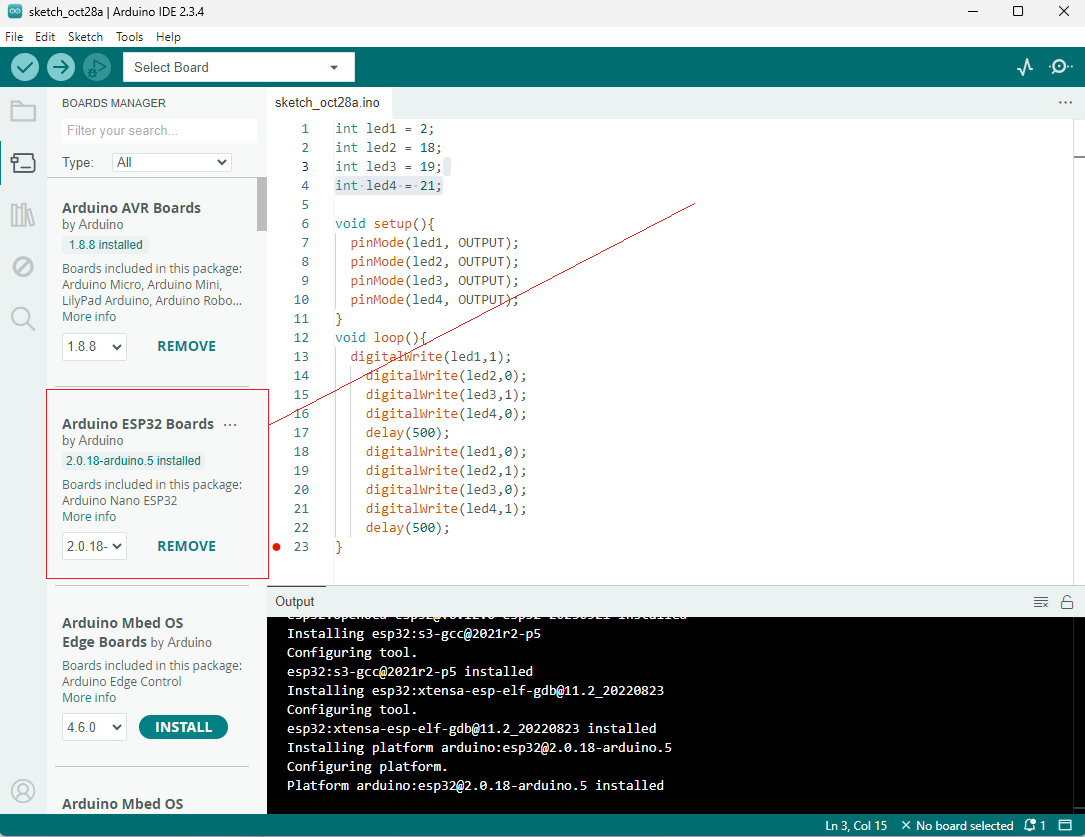
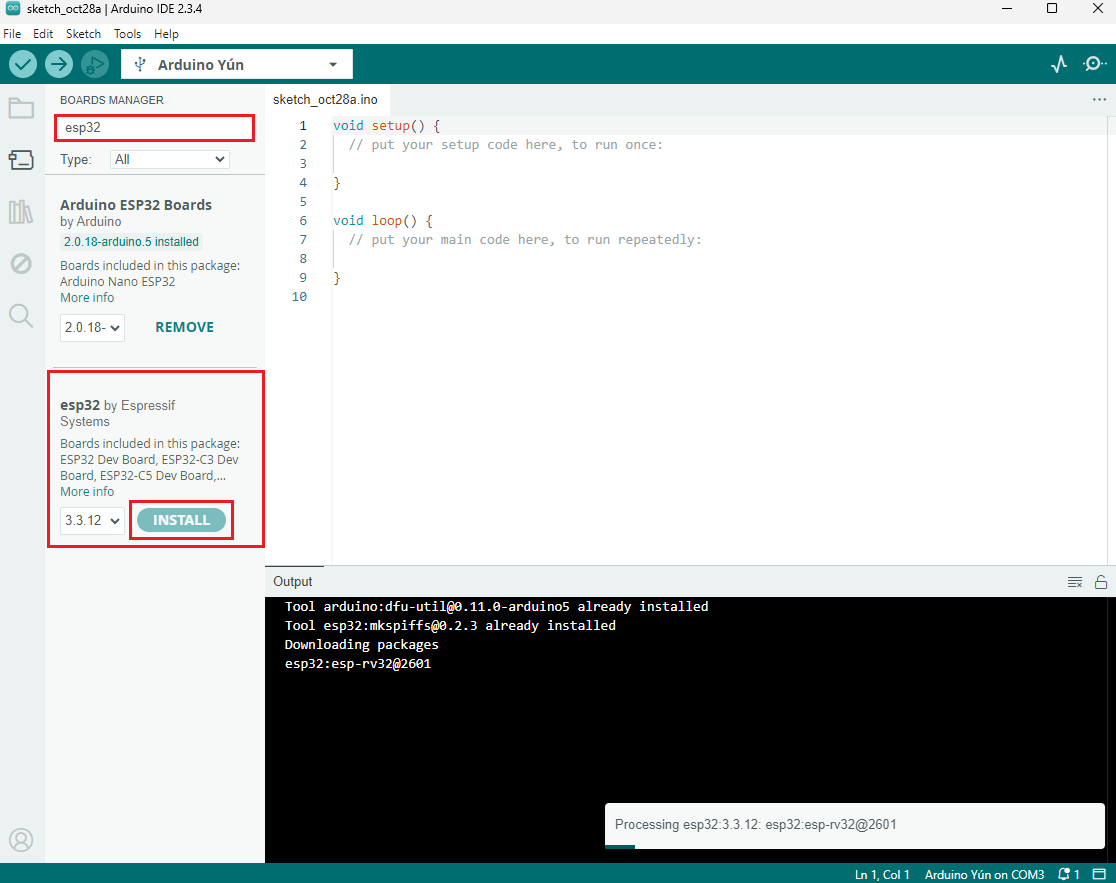
aula

Changed region(s): [[0.0, 0.0, 1.0, 1.0], [0.2737, 0.5591, 0.3041, 0.5902], [0.2737, 0.4659, 0.3041, 0.497]]

diff --git a/ds/turmas/2DES_B/4º Semestre/01-iot/aula06/README.md b/ds/turmas/2DES_B/4º Semestre/01-iot/aula06/README.md
@@ -75,22 +75,31 @@ void loop(){
         - Clicar em inicar e digitar Arduíno
         - Continuar a instalação pelo **Microsoft Store**
         - Ao concluir instalar os drives USB que forem solicitados
-<br>![MicrosoftStore](./ide01.png)
-- Após instalar a IDE, baixe o drive
+#### Imagem da instalação
+![MicrosoftStore](./ide01.png)
+- Se a instalação não iniciar por muito tempo escolha **Arduino 2**.
+- Ao concluir abra o Arduino IDE e instale os drivers
+- Tools >> Board >> Board Manager
+- Pesquise por **`esp32`** e instale
+<br>![ESP32](./driver02.png)
+
+<details><summary><h4>Baixar o driver manualmente</h4></summary>
+
 - [Baixar o Driver ESP32](https://www.pololu.com/file/0J14/pololu-cp2102-windows-220616.zip)
 - Descompacte e instale o driver x64
-<br>![Driver](./driver01.png)
-- Através da IDE instale-o abrindo a IDE do ARDUINO
-- Tools >> Board >> Board Manager e adicone o ESP32
-<br>![ESP32](./driver02.png)
-- Pesquise por esp32 e instale
-<br>![ESP32](./driver03.png)
+  - Navegando até o arquivo `pololu-...x64.exe` e executando como Administrador
+- ![Driver](./driver01.png)
+
+</details>
+
 
 ## Testando
 - Após a IDE e drive instalado
     - Conectar o cabo USB no ESP32 e computador
-    - Transmitir o código escolhendo a placa em [Board] e clicando em play
-<br>![IDE02](./ide02.png)
+    - Transmitir o código escolhendo a placa em [Board]
+- ![IDE02](./ide02.png)
+- Clicar na flecha `->` para fazer o upload do código na placa ESP32
+- ![IDE03](./ide03.png)
 
 ## Desafio 01
 Em grupo de até 5 integrantes:
@@ -99,6 +108,7 @@ Em grupo de até 5 integrantes:
     - Implante o código utilizando a IDE do Arduino
 - OBS: Alguns componentes de kits diversos não estão funcionais, compartilhem os componentes dos 8 kits tomando cuidados para não queimá-los
 ## Entregas
-- Fotografe e/ou faça um pequeno vídeo do experimento funcionando
-    - Suba o vídeo no Youtube ou se forem fotos em um repositório no github com as fotos em README.md
+- **Fotografe** e/ou faça um breve **vídeo** do experimento funcionando
+    - Suba o vídeo no Youtube ou as fotos em um repositório no github com o README.md mostrando uma descrição da experiência e fotos do protótipo.
 - Apresente o vídeo ou o repositório com as fotos para o instrutor **vistar**.
+
